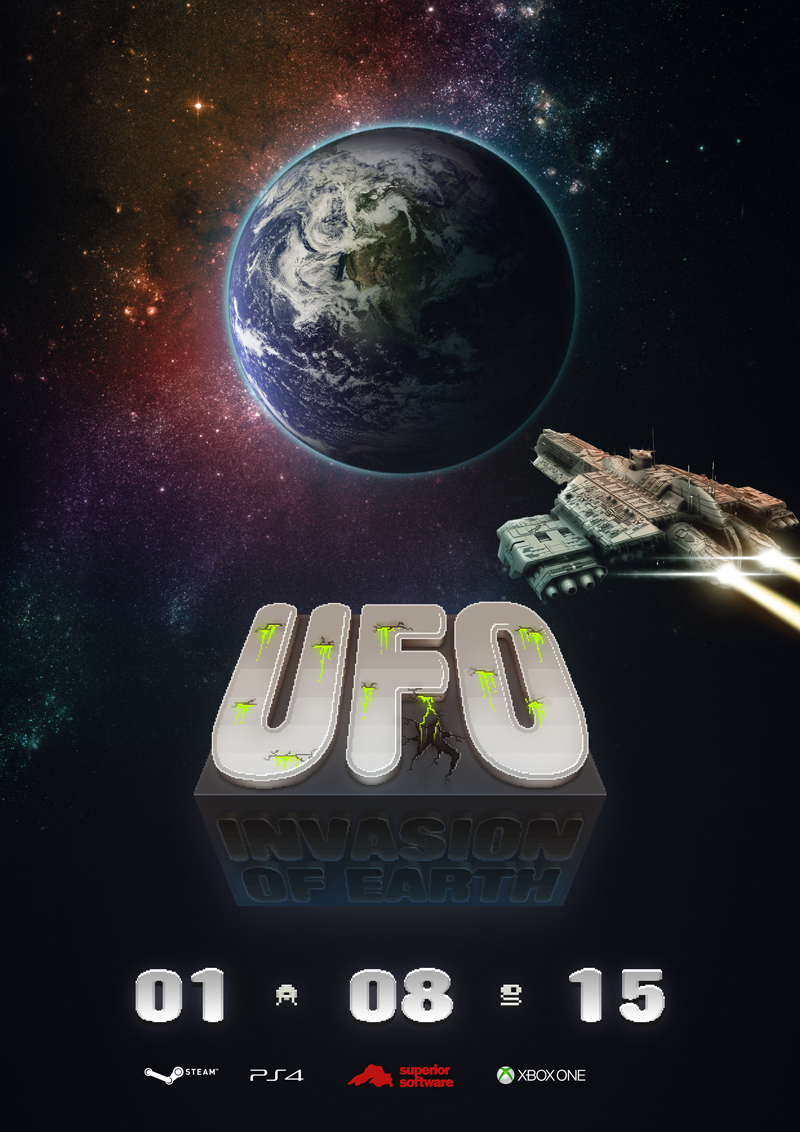
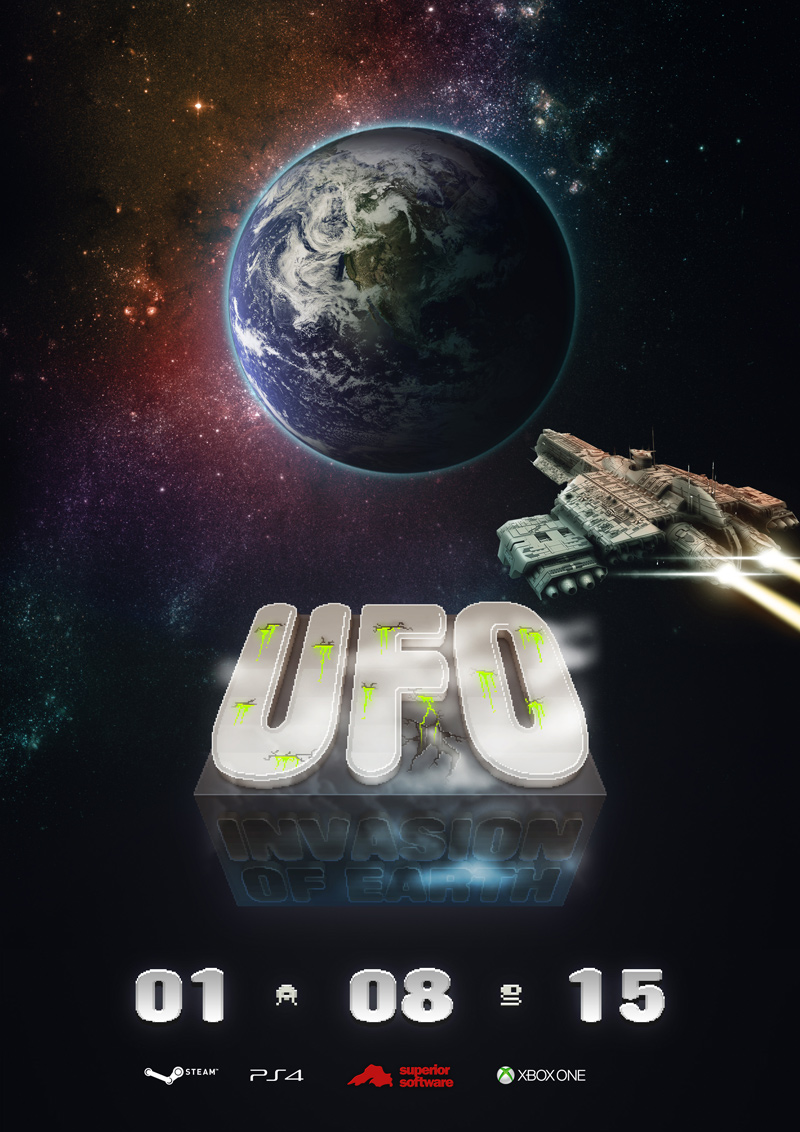
1.3 + 1.4 + 6.3 + 30.2 + 30.3 work, https fix,..
I have worked on a bunch of assignments. For the unit 1 pair, I moved
the next-ten-years time-line to a better location, and renamed it; it's
part of assignment 4, not 3. I also wrote a fair amount of the
time-line's content, which was taxing. There's a little more to do, but
I have a nifty tactic to cheat a little. Oh, the power of dittos. The
unit 6 assignment has created, but is little more than headings at the
moment. The 30.2 assignment was corrected and had more added to it, as
we apparently have to show changes based on feedback for the poster AND
logo. For the 30.3 assignment, I added bullets for myself later on, and
a reference to the cloud photo I used in the logo feedback redesign.

I've a bunch of images too. Unit 6 gets an SVG "data flow diagram",
while unit 30 gets 2 new images and 2 updated ones. These haven't been
run through jpegoptim yet, but I doubt doing so would yield much.

I've started work on the templating system, but this isn't quite up and
running yet. This accounts for the changes to functions.php.

I have also added styling for superscript text in the main stylesheet,
and changed the links to web fonts from http:// to just //. If the page
is loaded over HTTP, HTTP will be used. If the page is loaded over HTTPS
the fonts will be too. Unless it's IE6, but let's not think about that.

Changed region(s): [[0.25, 0.5256, 0.75, 0.8039], [0.2812, 0.6802, 0.3125, 0.7111]]

diff --git a/css/main.css b/css/main.css
@@ -3,38 +3,38 @@
 	font-family:'Source Sans Pro';
 	font-style:normal;
 	font-weight:400;
-	src:local('Source Sans Pro'),local('SourceSansPro-Regular'),url(http://fonts.gstatic.com/s/sourcesanspro/v9/ODelI1aHBYDBqgeIAH2zlBM0YzuT7MdOe03otPbuUS0.woff) format('woff');
+	src:local('Source Sans Pro'),local('SourceSansPro-Regular'),url(//fonts.gstatic.com/s/sourcesanspro/v9/ODelI1aHBYDBqgeIAH2zlBM0YzuT7MdOe03otPbuUS0.woff) format('woff');
 }
 @font-face {
 	font-family:'Source Sans Pro';
 	font-style:normal;
 	font-weight:700;
-	src:local('Source Sans Pro Bold'),local('SourceSansPro-Bold'),url(http://fonts.gstatic.com/s/sourcesanspro/v9/toadOcfmlt9b38dHJxOBGFkQc6VGVFSmCnC_l7QZG60.woff) format('woff');
+	src:local('Source Sans Pro Bold'),local('SourceSansPro-Bold'),url(//fonts.gstatic.com/s/sourcesanspro/v9/toadOcfmlt9b38dHJxOBGFkQc6VGVFSmCnC_l7QZG60.woff) format('woff');
 }
 @font-face {
 	font-family:'Source Sans Pro';
 	font-style:italic;
 	font-weight:400;
-	src:local('Source Sans Pro Italic'),local('SourceSansPro-It'),url(http://fonts.gstatic.com/s/sourcesanspro/v9/M2Jd71oPJhLKp0zdtTvoMzNrcjQuD0pTu1za2FULaMs.woff) format('woff');
+	src:local('Source Sans Pro Italic'),local('SourceSansPro-It'),url(//fonts.gstatic.com/s/sourcesanspro/v9/M2Jd71oPJhLKp0zdtTvoMzNrcjQuD0pTu1za2FULaMs.woff) format('woff');
 }
 @font-face {
 	font-family:'Source Sans Pro';
 	font-style:italic;
 	font-weight:700;
-	src:local('Source Sans Pro Bold Italic'),local('SourceSansPro-BoldIt'),url(http://fonts.gstatic.com/s/sourcesanspro/v9/fpTVHK8qsXbIeTHTrnQH6Nog-We9VNve39Jr4Vs_aDc.woff) format('woff');
+	src:local('Source Sans Pro Bold Italic'),local('SourceSansPro-BoldIt'),url(//fonts.gstatic.com/s/sourcesanspro/v9/fpTVHK8qsXbIeTHTrnQH6Nog-We9VNve39Jr4Vs_aDc.woff) format('woff');
 }
 @font-face {
 	font-family:'Droid Serif';
 	font-style:normal;
 	font-weight:400;
-	src:local('Droid Serif'),local('DroidSerif'),url(http://fonts.gstatic.com/s/droidserif/v6/0AKsP294HTD-nvJgucYTaI4P5ICox8Kq3LLUNMylGO4.woff2) format('woff2');
+	src:local('Droid Serif'),local('DroidSerif'),url(//fonts.gstatic.com/s/droidserif/v6/0AKsP294HTD-nvJgucYTaI4P5ICox8Kq3LLUNMylGO4.woff2) format('woff2');
 	unicode-range:U+0000-00FF,U+0131,U+0152-0153,U+02C6,U+02DA,U+02DC,U+2000-206F,U+2074,U+20AC,U+2212,U+2215,U+E0FF,U+EFFD,U+F000;
 }
 @font-face {
 	font-family:'Droid Serif';
 	font-style:normal;
 	font-weight:700;
-	src:local('Droid Serif Bold'),local('DroidSerif-Bold'),url(http://fonts.gstatic.com/s/droidserif/v6/QQt14e8dY39u-eYBZmppwYlIZu-HDpmDIZMigmsroc4.woff2) format('woff2');
+	src:local('Droid Serif Bold'),local('DroidSerif-Bold'),url(//fonts.gstatic.com/s/droidserif/v6/QQt14e8dY39u-eYBZmppwYlIZu-HDpmDIZMigmsroc4.woff2) format('woff2');
 	unicode-range:U+0000-00FF,U+0131,U+0152-0153,U+02C6,U+02DA,U+02DC,U+2000-206F,U+2074,U+20AC,U+2212,U+2215,U+E0FF,U+EFFD,U+F000;
 }
 
@@ -273,6 +273,9 @@ blockquote:after { /* closing quotation mark */
 	content:"\201d";
 	margin-top:30px;
 	text-align:right;
+}
+sup,sub {
+	line-height:.8;
 }
 table { /* stretch tables to full width */
 	width:100%;

diff --git a/includes/functions.php b/includes/functions.php
@@ -36,14 +36,13 @@ function process_includes($markdown) {
 
 			# process the contents, for some filetypes
 
-			$include_split		= explode(".", $include);
-			$include_directory	= explode("/", $include)[0];
+			$include_directory	= explode("/", $include)[0];	// e.g., "markdown"
+			$include_extension	= explode(".", $include);		// e.g., ["markdown/ext/06", "1-sdlc", "md"]
+			$include_extension	= end($include_extension);		// e.g., "md"
 
 			if ($include_directory == "file") {
 
-				$include_extension	= end($include_split);
 				preg_match("/(?<=file\/)(.*?)(?=\/)/", $include, $include_category);
-
 				$include_category	= $include_category[0];
 
 				if ($include_category == "code") {
@@ -63,26 +62,36 @@ function process_includes($markdown) {
 
 					$file_contents		= preg_replace("/(.*\n)/", "\t$1", $file_contents);							// indent each line with a tab for markdown
 
-				}
-
-				/*
-				if $include_template == "article") {
-
-					$parsedown_article	= new Parsedown();
-					$file_contents		= $parsedown_article->text($file_contents);
-					$file_contents		= str_replace("<!--[COL-1]-->", "<div class=\"col-1\">", $file_contents);
-					$file_contents		= str_replace("<!--[COL-2]-->", "</div><div>", $file_contents);
-					$file_contents		= $file_contents . "</div>";
-					$file_contents		= "<hr><article>" . $file_contents . "</article><hr>";
-
-				}
-				*/
-
-				if ($include_extension == "html") {
+				} else if ($include_extension == "html") {
 
 					preg_match("/<body[A-z0-9='.,:; \"]*>((?s).*?)<\/body>/", $file_contents, $file_contents);
 					$file_contents	= $file_contents[1];
 					$file_contents	= preg_replace("/[\n\r\t]*/", "", $file_contents);	// prevents markdown from converting markup to HTML entities
+
+				}
+
+			}
+
+			if ($include_extension == "md") {
+
+				preg_match("/(?<=<!--\[TEMPLATE\] )(.*?)(?= -->)/", $file_contents, $include_template);
+
+				if (isset($include_template[0])) {
+
+					$include_template	= $include_template[0];
+					echo $include_template;
+
+					$parsedown		= new Parsedown();
+					$file_contents	= $parsedown->text($file_contents);
+
+					if ($include_template == "article") {
+
+						$file_contents		= str_replace("<!--[COL-1]-->", "<div class=\"col-1\">", $file_contents);
+						$file_contents		= str_replace("<!--[COL-2]-->", "</div><div>", $file_contents);
+						$file_contents		= $file_contents . "</div>";
+						$file_contents		= "<hr><article>" . $file_contents . "</article><hr>";
+
+					}
 
 				}
 

diff --git a/markdown/30.2.md b/markdown/30.2.md
@@ -5,12 +5,12 @@
 		<img src="/btec/img/30.2.2.png">
 	</a>
 	The logo I created. I would recommend opening the image in a new browser tab by clicking it, therefore seeing the image at 1:1 scale. This is because of the pixel-art visual style I used.
-	<div>Image by myself; see <a href="/btec/license">license</a>.</div>
+	<div>Image by me; see <a href="/btec/license">license</a>.</div>
 </div>
 
-To begin with, I designed a logo for a fictional game. The specification stated that the game was to be called *UFO: Invasion of Earth*, and had to include the RGB colour (170, 255, 0). It also needed to be 320 pixels wide and 240 high, at a resolution of 300 DPI or higher.
+To begin with, I designed a logo for a fictional game. The specification stated that the game was to be called *UFO: Invasion of Earth*, and had to include the colour RGB (170, 255, 0). It also needed to be 320 pixels wide and 240 high, at a resolution of 300 DPI or higher.
 
-I created the image in Photoshop using a number of techniques. A number of images showing the development of the logo are shown below.
+I created the image in Photoshop using a number of techniques. A number of images showing the development of the logo are shown below. 
 
 ## Progression
 
@@ -23,19 +23,19 @@ I created the image in Photoshop using a number of techniques. A number of image
 <div class="i h">
 	<img src="/btec/img/30.2.1.3.png">
 	<img src="/btec/img/30.2.1.4.png">
-	In order to further develop the 3D text, I added more layer effects and added pixelated gradients over different parts of text. This was to create an illusion that the surface of the text was concaved. I used the brush tool to create a softer shadow below the text on the bottom half of the dark-grey block. Using clipping masks, I also added shading and highlighting to the extruded aprts of the lettering.<br><br>I then used the pencil tool to create cracks in the text and the base block. I used a soft brush to create patches of darker material around these cracks, and then also added a cracked hole in the block. I used more layer styles to create a highlight below the cracks, and therefore giving them the subtle appearance of being 3D and set into the text and cuboid. I could have also used the *Bevel and Emboss* effect in the Photoshop layer styles to create this effect.
+	In order to further develop the 3D text, I added more layer effects and added pixelated gradients over different parts of text. This was to create an illusion that the surface of the text was concaved. I used the brush tool to create a softer shadow below the text on the bottom half of the dark-grey block. Using clipping masks, I also added shading and highlighting to the extruded parts of the lettering.<br><br>I then used the pencil tool to create cracks in the text and the base block. I used a soft brush to create patches of darker material around these cracks, and then also added a cracked hole in the block. I used more layer styles to create a highlight below the cracks, and therefore giving them the subtle appearance of being 3D and set into the text and cuboid. I could have also used the <em>Bevel and Emboss</em> effect in the Photoshop layer styles to create this effect.
 	<div>Images by myself; see <a href="/btec/license">license</a>.</div>
 </div>
 <div class="i h">
 	<img src="/btec/img/30.2.1.5.png">
 	<img src="/btec/img/30.2.1.6.png">
-	After having created the cracks, I used the pencil tool again with the specified green colour to draw the drips of acid being released from the subject of the image. As all of the drips were on the same layer, I added layer styles to made the acid appear more three-dimensional. I added an inner shadow to the top of the drips, which I made white and set to the overlay blending mode. This made the tops of the drips a brighter green colour, which appears as a reflection. I made sure that the majority of the liquid was still of the correct colour (RGB [170,255,0]), and placed the layer above all of the others so that the colour would not be affected by any adjustment layers I created, something I did in the following step<br><br>The last step of designing the logo was the colour correction that I added. I used adjustment layers to alter the brightness, saturation and contrast of the logo, using a mask so that the adjustments would not affect the temporary background I was using. I used a soft, white brush &ndash; particularly around the "UFO" text &ndash; to highlight certain areas of the logo. I also added simple, filled layers which I set to the <em>Screen</em> blending mode, giving the logo a blue haze at the bottom, a warmer orange tint towards the top, and a generally more washed out appearance. Although often considered a negative attribute of an image, I think the lightened shadows improve the logo.
+	After having created the cracks, I used the pencil tool again with the specified green colour to draw the drips of acid being released from the subject of the image. As all of the drips were on the same layer, I added layer styles to make the acid appear more three-dimensional. I added an inner shadow to the top of the drips, which I made white and set to the overlay blending mode. This made the tops of the drips a brighter green colour, which appears as a reflection. I made sure that the majority of the liquid was still of the correct colour (RGB [170, 255, 0]), and placed the layer above all of the others so that the colour would not be affected by any adjustment layers I created, something I did in the following step<br><br>The last step of designing the logo was the colour correction that I added. I used adjustment layers to alter the brightness, saturation and contrast of the logo, using a mask so that the adjustments would not affect the temporary background I was using. I used a soft, white brush &ndash; particularly around the "UFO" text &ndash; to highlight certain areas of the logo. I also added simple, filled layers which I set to the <em>Screen</em> blending mode, giving the logo a blue haze at the bottom, a warmer orange tint towards the top, and a generally more washed out appearance. Although often considered a negative attribute of an image, I think the lightened shadows improve the logo.
 	<div>Images by myself; see <a href="/btec/license">license</a>.</div>
 </div>
 
 # Poster [P3]
 
-I also designed a poster for the fictional game. Below, eight steps of progression I took are shown and explained, and the final poster is shown.
+I also designed a poster for the fictional game. Below, eight steps of progression I took are shown and explained, and the first version of the poster is shown.
 
 ## Progression
 
@@ -54,15 +54,15 @@ I also designed a poster for the fictional game. Below, eight steps of progressi
 <div class="i h">
 	<img src="/btec/img/30.2.3.5.jpg">
 	<img src="/btec/img/30.2.3.6.jpg">
-	The next step I took was to add the first two images I had sourced online. I placed an image of the world just higher than the centre of the canvas, and added the spaceship image to the right. I had isolated the spaceship from a black background using the magic want tool, the negative effects of which has been hidden by downscaling the image.
+	The next step I took was to add the first two images I had sourced online. I placed an image of the world just higher than the centre of the canvas, and added the spaceship image to the right. I had isolated the spaceship from a black background using the magic want tool, the negative effect of which has been hidden by down-scaling the image.
 
-	I slightly warped the spaceship so that the perspective matched where I imagined the camera to be better, and applied some basic colour correction. I used several clipping-mask layers to brighten particular areas of the craft, and increased the contrast of the layer itself. I added a few layers to create the beams of light being released from the ship's engines as well. I used clipping masks once more to darked a good portion of the earth, giving the impression that the sun was somewhere towards the top left of the image, but out of shot. I created a new circular shape layer and used layer styles to make a more obvious atmosphere.
+	I slightly warped the spaceship so that the perspective matched where I imagined the camera to be better, and applied some basic colour correction. I used several clipping-mask layers to brighten particular areas of the craft, and increased the contrast of the layer itself. I added a few layers to create the beams of light being released from the ship's engines as well. I used clipping masks once more to darken a good portion of the earth, giving the impression that the sun was somewhere towards the top left of the image, but out of shot. I created a new circular shape layer and used layer styles to make a more obvious atmosphere.
 	<div>Images by myself; see <a href="/btec/license">license</a>.</div>
 </div>
 <div class="i h">
 	<img src="/btec/img/30.2.3.7.jpg">
 	<img src="/btec/img/30.2.3.8.jpg">
-	The last steps of the poster's creation involved adding a background, further colour correction, some recomposition, the addition of a logo for superior software, and some small finishing touches. For the background, I used an image I found on the web of a particularly dense area of space. I altered a lot of the image's properties, positioned it behind the image of Earth, and added a more pleasing colour gradient. I also added more colour correction to the spaceship to make it seem more realistic. If I were to guess, I'd say that the original image had been rendered without a specific light source, and just with a matte texture across the entire model and ambient occlusion taking care of shading. I spent time developing the light trails behind the craft, part of which involved the addition of lens flares on the engine's nozzles. I created a separate logo for <em>Superior Software</em>, the fictional development company responsible for the game, with the shape of Lake Superior in North America used as the focus and text in Franklin Gothic placed to the right. I felt that the green colour being used for the date was too garish and commanding, and I decided to use a light grey with a gradient instead. I kept the 3D effect below the text and the pixel-art aliens I had created before. The last step was to add further colour correction, while ensuring this didn't affect the logo. This gave the poster a slight blue/purple tint in the shadows, and made the logo fit more seamlessly into the scene.
+	The last steps of the poster's creation involved adding a background, further colour correction, some re-composition, the addition of a logo for superior software, and some small finishing touches. For the background, I used an image I found on the web of a particularly dense area of space. I altered a lot of the image's properties, positioned it behind the image of Earth, and added a more pleasing colour gradient. I also added more colour correction to the spaceship to make it seem more realistic. If I were to guess, I'd say that the original image had been rendered without a specific light source and just with a matte texture across the entire model and ambient occlusion taking care of shading. I spent time developing the light trails behind the craft, part of which involved the addition of lens flares on the engine's nozzles. I created a separate logo for <em>Superior Software</em>, the fictional development company responsible for the game, with the shape of Lake Superior in North America used as the focus and text in Franklin Gothic placed to the right. I felt that the green colour being used for the date was too garish and commanding, and I decided to use a light grey with a gradient instead. I kept the 3D effect below the text and the pixel-art aliens I had created before. The last step was to add further colour correction, while ensuring this didn't affect the logo. This gave the poster a slight blue/purple tint in the shadows, and made the logo fit more seamlessly into the scene.
 	<div>Images by myself; see <a href="/btec/license">license</a>.</div>
 </div>
 
@@ -70,8 +70,8 @@ I also designed a poster for the fictional game. Below, eight steps of progressi
 	<a href="/btec/img/30.2.6.2.jpg" target="_blank">
 		<img src="/btec/img/30.2.4.jpg">
 	</a>
-	The final version of the poster I created. Click the poster for a full size version.
-	<div>Image by myself; see <a href="/btec/license">license</a>.</div>
+	The first version of the poster I created. Click the poster for a full size version.
+	<div>Image by me; see <a href="/btec/license">license</a>.</div>
 </div>
 
 ### Images I Used
@@ -81,13 +81,14 @@ I used several images from the internet in the creation of the poster. Links to 
 * Earth &ndash; [visibleearth.nasa.gov](http://visibleearth.nasa.gov/view.php?id=57723)
 * Galaxy NGC 4449 &ndash; [NASA](http://www.nasa.gov/), [ESA](http://www.esa.int/), A. Aloisi (STScI/ESA), and The Hubble Heritage (STScI/AURA)-ESA/Hubble Collaboration, [www.spacetelescope.org](http://www.spacetelescope.org/images/heic0711a/)
 * Spaceship &ndash; [space.desktopnexus.com](http://space.desktopnexus.com/get/1689517?t=7trc7fkhgn5pkvl19n6g4hnt5254ae4e4d7fc88)
+* Clouds &ndash; [commons.wikimedia.org](http://commons.wikimedia.org/wiki/File%3ACumulus_clouds_21072012_%281%29.jpg) (used in [logo redesign](#4))
 
 # Digital Design Tools [P4] [P3]
 
 <div class="i r">
 	<img src="/btec/img/30.2.5.png">
 	An annotated screenshot of the Photoshop tool pane, showing many of the tools I used when creating the poster and logo.
-	<div>Image by myself; see <a href="/btec/licence">license</a>.</div>
+	<div>Image by me; see <a href="/btec/licence">license</a>.</div>
 </div>
 
 ## Brush
@@ -114,12 +115,17 @@ Once a selection has been made, it serves many purposes. If one is being used, t
 
 # Responding to Feedback [P5]
 
-In order to gauge the success of the images I created, I asked members of my class to fill out a small form about the poster and logo. I took their feedback and recommendations into consideration and changed the poster.
+In order to gauge the success of the images I created, I asked members of my class to fill out a small form about the poster and logo. I took their feedback and recommendations into consideration and changed both.
 
 <div class="i">
-	<img src="/btec/img/30.2.6.1.jpg">
-	The altered poster, changed after having received feedback from people in class. I added the logos for Steam, the PlayStation 4 and the Xbox One, showing the three platforms that the game would be released on.
-	<div>Image by myself; see <a href="/btec/license">license</a>.</div>
+	<a href="/btec/img/30.2.6.2.jpg"><img src="/btec/img/30.2.6.1.jpg"></a>
+	The altered poster, changed after having received feedback from people in class. I added the logos for Steam, the PlayStation 4 and the Xbox One, showing the three platforms that the game would be released on. The revised logo shown below was also added. Again, you click the image for a full-size version.
+	<div>Image by me; see <a href="/btec/license">license</a>.</div>
+</div>
+<div class="i">
+	<img src="/btec/img/30.2.6.3.png">
+	The altered logo, with mist/smoke added as per suggestion. I used the brush tool, clipping masks and cloud rendering to achieve the effect. I also used a photo of cumulus clouds, mentioned previously.
+	<div>Image by me; see <a href="/btec/license">license</a>.</div>
 </div>
 
 # Decisions Made During Design [M2]
@@ -148,7 +154,7 @@ For the logo, I used a resolution of 300 PPI (pixels per inch), despite the fact
 
 In order to keep the images lossless, I used a colour depth of 24 bits per pixel. This was true for both the poster in JPEG format and the logo in PNG format. This colour depth is often referred to as "16-million colours", and can represent up to 256<sup>3</sup>, or 16,777,216, colours. This is also referred to as true colour, as very few projects call for more colours to be available.
 
-For some of the progression images for the logo, I used the PNG-8 format rather than the usual PNG-24. This format uses only 8 bits per pixel, but includes an index of colours defined at the beginning of the file. An 8-bit PNG file can have any of the usual 24-bit true colours, but a file can only use up to 256 of them. For some of the earlier progress images, fewer than 256 colours were required to perfectly reconstruct the image, and for other very little quality was lost. Despite the minimal loss in quality when using PNG-8 over PNG-24, some of the files were as little as half the size.
+For some of the progression images for the logo, I used the PNG-8 format rather than the usual PNG-24. This format uses only 8 bits per pixel, but includes an index of colours defined at the beginning of the file. An 8-bit PNG file can have any of the usual 24-bit true colours, but a file can only use up to 256 of them. For some of the earlier progress images, fewer than 256 colours were required to perfectly reconstruct the image, and for others very little quality was lost. Despite the minimal loss in quality when using PNG-8 over PNG-24, some of the files were as little as half the size.
 
 <!--
 

diff --git a/markdown/30.3.md b/markdown/30.3.md
@@ -2,6 +2,15 @@
 
 There are a number of legal implications one must consider when creating digital graphics and particularly when using images and graphics created by other people. Initiatives such as the Creative Commons
 
+* Do you have permission to use anything that is essentially ‘owned’ by the software house?   
+* How has that permission been obtained?
+* Is that permission specific for a single purpose?
+* Do any of your images require other permissions (check issues around photographing people)
+* Who owns the images you have produced for the software house?
+* Who owns the copyrights on your logo designs?
+* Who owns the copyrights on your photographs? You or the client?
+* What would be the legal implications of using other people’s graphical images?
+
 When creating the poster as part of the [second assignment](/btec/30.2) in the Digital Graphics unit, I used three images sourced from the internet:
 
 Image | Source | Description | License
@@ -9,5 +18,6 @@ Image | Source | Description | License
 <img src="/btec/img/30.3.1.jpg"> | [visibleearth.nasa.gov](http://visibleearth.nasa.gov/view.php?id=57723), [www.freehdbackgrounds.net](http://www.freehdbackgrounds.net/earth-space-wallpapers.htm) |  One of the most iconic photographs of Earth, the famed Blue Marble image is property of NASA's. It can be found on the NASA website, as well as other such as the linked wallpaper website. NASA allows for use of its intellectual property for educational purposes, as well as others, which I would classify the poster as. Were the game not fictional, I would seek direct permission from NASA for the image's use, or find a royalty free alternative. | NASA's Earth Observatory, education purposes
 <img src="/btec/img/30.3.2.jpg"> | [www.spacetelescope.org](http://www.spacetelescope.org/images/heic0711a/) | An image taken by the Hubble telescope and published on the ESA website. The image shows clusters of stars in the NGC 4449 galaxy. The image is accompanied by the ESA's image license, linked in the next table cell. The image is used fairly with credit given to the the ESA and Space Telescope website. | Creative Commons-based license, described [here](http://www.spacetelescope.org/copyright/).
 <img src="/btec/img/30.3.3.jpg"> | [www.scifi-meshes.com](http://www.scifi-meshes.com/forums/showthread.php?78004-Stargate-Redemotion-USS-Icarus-Ver-III), [space.desktopnexus.com](http://space.desktopnexus.com/wallpaper/1689517/) | The image is a work-in-progress render of the starship Icarus, created as part of a fan-driven project to create a shot film based in the Stargate universe. The model and render were created by user [-=sAs=-](http://www.scifi-meshes.com/forums/member.php?5280-sAs) on the Sci-Fi Meshes forum. The thread link is provided to the left. | Image used under fair use policy. Permission would be sought in a real commercial environment.
+<img src="/btec/img/30.3.4.jpg"> | [commons.wikimedia.org](http://commons.wikimedia.org/wiki/File%3ACumulus_clouds_21072012_%281%29.jpg) | The image is of cumulus clouds, found using Google Images' license search option. | By Joydeep (Own work) [[CC BY-SA 3.0](http://creativecommons.org/licenses/by-sa/3.0)], [via Wikimedia Commons](http://commons.wikimedia.org/wiki/File%3ACumulus_clouds_21072012_%281%29.jpg).
 
 # The Evolution of Output: A Report [D1]

diff --git a/markdown/01.4.md b/markdown/01.4.md
@@ -82,19 +82,29 @@ In order to gain another perspective regarding our learning styles, we took the 
 
 # Personal Development
 
-<!--[INCLUDE] file/timeline/01.4-next-ten-years.md -->
-
 ## Grid
 
-The below grid shows the two goals I have set for myself to complete within three weeks.
+The below grid shows the two goals I have set for myself; one to be completed within ten years and the other within three weeks.
 
 Time Scale | Goal
 -|-
 Long term  | Become a web designer/developer for an agency or myself.
 Short term | Finish a website I'm currently building, and potentially build another using technologies I am currently not familiar with.
 
+## Long Term
+
+In order to create a more definite image of who and where I want to be, I created a timeline illustrating the steps I would take to become a web designer, either in an agency or via self-employment.
+
+<!--[INCLUDE] markdown/ext/01.4-next-ten-years.md -->
+
+## Short Term
+
 A more detailed plan of what I set out to achieve is shown below. I felt that setting a list of objectives would help to ensure that I achieve the most I can in the allotted time.
 
 Interim Targets | Actions | Success Criteria | Review Date
 -|-|-|-
-Familiarise myself with the project, as I haven't had time to work on it for some time. | Read through the source code I've already written, and potentially make some readability improvements. | Being more familiar with the code I previously wrote, in order that I can continue development easily. | 31<sup>st</sup> January
+Familiarise myself with the project, as I haven't had time to work on it for some time. | Read through the source code I've already written, and potentially make some readability improvements. | Being more familiar with the code I previously wrote, in order that I can continue development easily. | 7<sup>th</sup> February
+Complete the contact page and resultant emailing system. | Continue work in PHP, finish the mailing template, update the front-end accordingly and test that everything works. | The form can be completed by a user successfully and give a good user experience. | 8<sup>th</sup> February
+Complete the gallery page. | Program the back-end in PHP and a front-end for viewing photographs using JavaScript, HTML and CSS. | The gallery page can be loaded showing thumbnails for a series of photos, and shows higher-resolution copies when the images are clicked. | 13<sup>th</sup> February
+Complete the shop section of the website. | Process thumbnails from the gallery and write up key information about different products. Place this data in a MySQL database or JSON file, and then write the back-end for this. | A user is able to load the shop page, view available items, view estimated prices and easily proceed to the contact page. | 16<sup>th</sup> February
+Make any finishing touches that must be added, and push the change online. | The actions that I take during this stage cannot be clear until the stage is reached, as I don't know exactly which parts of the website development will generate issues. | The website can be visited online from anywhere using a memorable address and via a secure connection, and provides a consistent user experience. | 20<sup>th</sup> February

diff --git a/markdown/ext/01.4-next-ten-years.md b/markdown/ext/01.4-next-ten-years.md
@@ -1,10 +1,30 @@
-specific  
-measurable  
-achievable  
-relevant  
-time-bound  
+Should be:  
+* specific  
+* measurable  
+* achievable  
+* relevant  
+* time-bound
 
-* Learn
-* Job
-* Earn
-* Sob
+---
+
+* <span>2015</span>Develop my web design and development skills and experiment in new fields of programming. I would like to become better acquainted with PHP and JavaScript, as well as to work more in C and potentially Go. I intend to publish my projects open-source on [GitHub](http://en.wikipedia.org/wiki/GitHub) as some form of evidence of this.
+
+* <span>2016</span>Utilise my skills to build websites for friends and family, and simply to practice. Doing this, I will be able to build a portfolio of past projects and therefore showcase my skillset. By the end of 2016, I would like to have built at least five websites that could realistically be found in production environments.
+
+* <span>2017</span>Work as a formal employee of a company, in an apprenticeship, or as a designer and developer from home. Being able to earn money rather than enter debt with a loan for university will mean that I won't find myself paying money monthly for several years, and losing more to interest. If I was to become self-employed, I would use websites such as Careers 2.0, GitHub and Twitter to find work.
+
+* <span>2018</span>Having worked for around a year-and-a-half in web design and development, I would like to be earning around &pound;18,000 p.a. or more. I feel this is easily achievable if I was to work for a business, but it could be harder being self-employed or free-lance.
+
+* <span>2019</span>Having more experience and having optimised my working environment, I would like to be generating a larger income by this point; perhaps ~&pound;21,000.
+
+* <span>2020</span>*continued*
+
+* <span>2021</span>*continued*
+
+* <span>2022</span>
+
+* <span>2023</span>*continued*
+
+* <span>2024</span>*continued*
+
+* <span>2025</span>By this point, I would like to be working either as a designer and developer at an IT agency or alternatively from home. I would like to be working with a number of clients, and have build a series of websites acting as a portfolio.

diff --git a/markdown/06.3.md b/markdown/06.3.md
@@ -1,0 +1,15 @@
+# Planning a Program [P6]
+
+<div class="i">
+	<img src="/btec/img/06.3.1.svg">
+	A DFD, or data flow diagram, showing how data may move around a Blackjack program.
+	<div>Image by me; see <a href="/btec/license">license</a>.</div>
+</div>
+
+# Quality of Source Code [M1]
+
+# Data Type and Software Structure Choice [M2]
+
+# Readability of Source Code [D1]
+
+# Blackjack in Python [D2]
